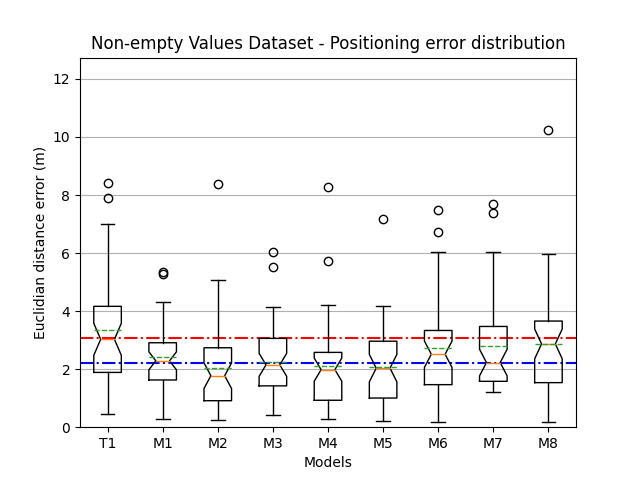
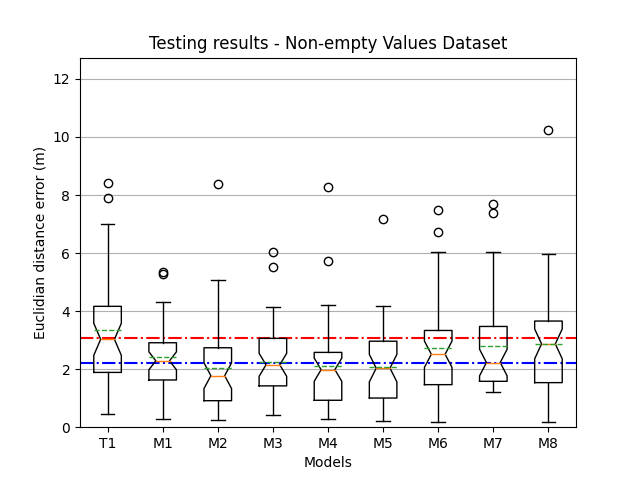
Graficos, cambio de títulos

Changed region(s): [[0.125, 0.0625, 0.875, 0.125]]

diff --git a/01-posicionamiento/paper1/05_charts.py b/01-posicionamiento/paper1/05_charts.py
@@ -78,8 +78,7 @@ for dataset in datasets:
     ax.set_ylim([0, max_dataset_value+2.5])
     plt.xlabel('Models')
     plt.ylabel('Euclidian distance error (m)')
-    plt.title(dataset['public_name'] +
-              ' - Positioning error distribution')
+    plt.title('Testing results - '+dataset['public_name'])
     
     plt.savefig(os.path.join(output_dir, dataset['name']+'-boxplot.png'))
     plt.savefig(os.path.join(output_dir, dataset['name']+'-boxplot.eps'))
